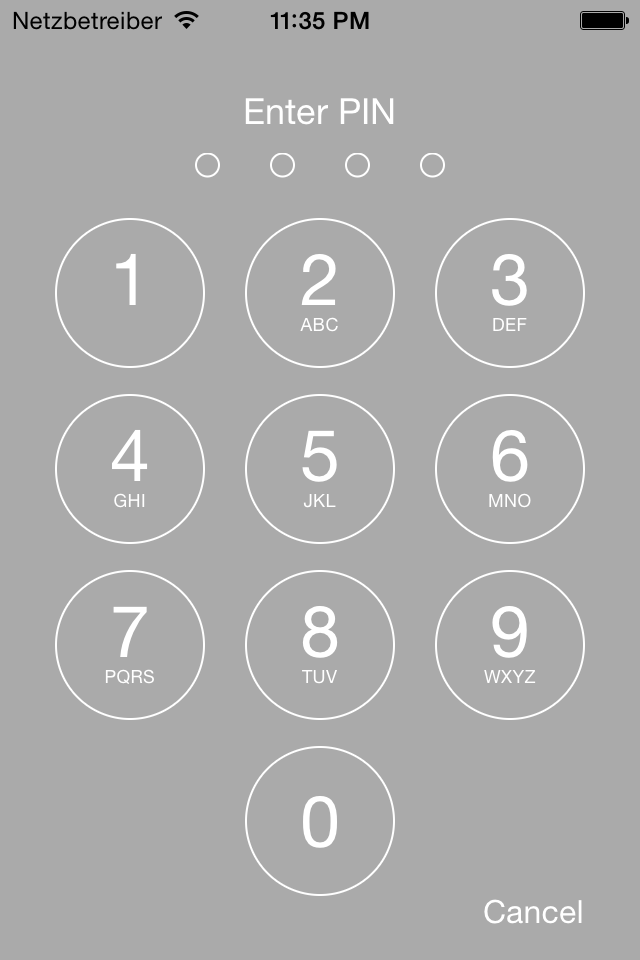
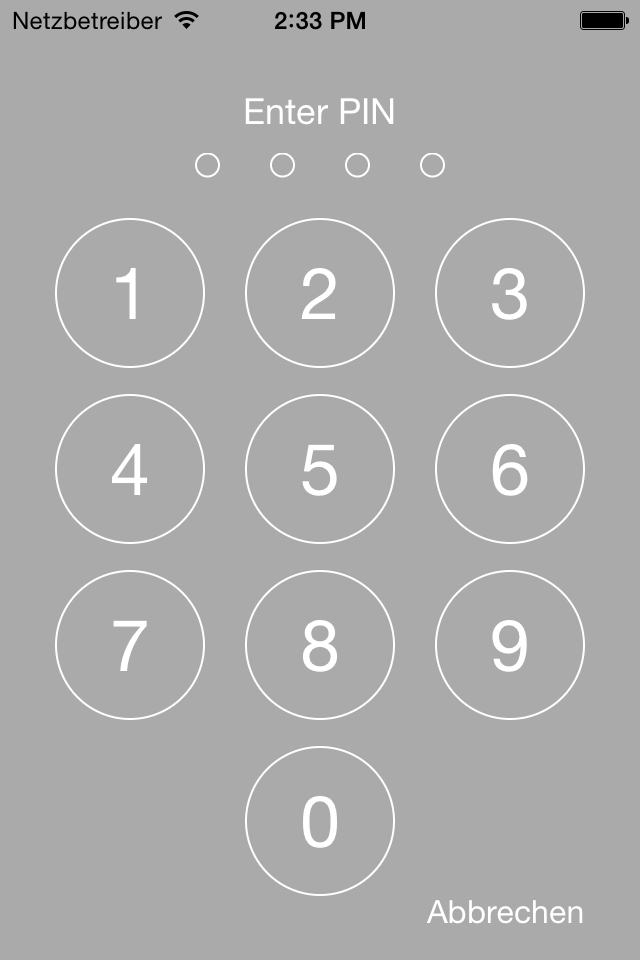
added option to hide letters

diff --git a/THPinViewController/THPinNumPadView.m b/THPinViewController/THPinNumPadView.m
@@ -36,74 +36,86 @@
         self.hPadding = (UI_USER_INTERFACE_IDIOM() == UIUserInterfaceIdiomPad) ? 24.0f : 20.0f;
         self.vPadding = (UI_USER_INTERFACE_IDIOM() == UIUserInterfaceIdiomPad) ? 19.0f : 13.0f;
         
-        NSMutableString *vFormat = [NSMutableString stringWithString:@"V:|"];
-        NSMutableDictionary *rowViews = [NSMutableDictionary dictionary];
-        
-        for (NSUInteger row = 0; row < 4; row++)
-        {
-            UIView *rowView = [[UIView alloc] init];
-            rowView.translatesAutoresizingMaskIntoConstraints = NO;
-            [self addSubview:rowView];
-            [self addConstraint:[NSLayoutConstraint constraintWithItem:rowView attribute:NSLayoutAttributeCenterX
-                                                             relatedBy:NSLayoutRelationEqual
-                                                                toItem:self attribute:NSLayoutAttributeCenterX
-                                                            multiplier:1.0f constant:0.0f]];
-            
-            NSString *rowName = [NSString stringWithFormat:@"row%lu", (unsigned long)row];
-            if (row > 0) {
-                [vFormat appendString:@"-(vPadding)-"];
-            }
-            [vFormat appendFormat:@"[%@(==rowHeight)]", rowName];
-            rowViews[rowName] = rowView;
-            
-            NSMutableString *hFormat = [NSMutableString stringWithString:@"H:|"];
-            NSMutableDictionary *buttonViews = [NSMutableDictionary dictionary];
-            
-            for (NSUInteger col = 0; col < 3; col++)
-            {
-                if (row == 3 && col != 1) {
-                    // only one button on last row
-                    continue;
-                }
-                
-                NSUInteger number = (row < 3) ? row * 3 + col + 1 : 0;
-                THPinNumButton *button = [[THPinNumButton alloc] initWithNumber:number
-                                                                        letters:[self lettersForRow:row column:col]];
-                button.translatesAutoresizingMaskIntoConstraints = NO;
-                button.backgroundColor = self.backgroundColor;
-                [button addTarget:self action:@selector(numberButtonTapped:) forControlEvents:UIControlEventTouchUpInside];
-                [rowView addSubview:button];
-                
-                NSString *buttonName = [NSString stringWithFormat:@"button%lu%lu", (unsigned long)row, (unsigned long)col];
-                [rowView addConstraints:[NSLayoutConstraint constraintsWithVisualFormat:[NSString stringWithFormat:@"V:|[%@]|", buttonName]
-                                                                                options:0 metrics:nil views:@{ buttonName : button }]];
-                
-                if (row < 3) {
-                    if ([buttonViews count] > 0) {
-                        [hFormat appendString:@"-(hPadding)-"];
-                    }
-                    [hFormat appendFormat:@"[%@]", buttonName];
-                } else {
-                    [hFormat appendFormat:@"-[%@]-", buttonName];
-                }
-                buttonViews[buttonName] = button;
-            }
-            
-            [hFormat appendString:@"|"];
-            NSDictionary *metrics = @{ @"hPadding" : @(self.hPadding) };
-            [rowView addConstraints:[NSLayoutConstraint constraintsWithVisualFormat:hFormat options:0 metrics:metrics views:buttonViews]];
-        }
-        
-        [vFormat appendString:@"|"];
-        NSDictionary *metrics = @{ @"rowHeight" : @([THPinNumButton diameter]),
-                                   @"vPadding" : @(self.vPadding) };
-        [self addConstraints:[NSLayoutConstraint constraintsWithVisualFormat:vFormat options:0 metrics:metrics views:rowViews]];
+        [self setupViews];
     }
     return self;
 }
 
+- (void)setupViews
+{
+    // remove existing views
+    [self.subviews makeObjectsPerformSelector:@selector(removeFromSuperview)];
+    
+    NSMutableString *vFormat = [NSMutableString stringWithString:@"V:|"];
+    NSMutableDictionary *rowViews = [NSMutableDictionary dictionary];
+    
+    for (NSUInteger row = 0; row < 4; row++)
+    {
+        UIView *rowView = [[UIView alloc] init];
+        rowView.translatesAutoresizingMaskIntoConstraints = NO;
+        [self addSubview:rowView];
+        [self addConstraint:[NSLayoutConstraint constraintWithItem:rowView attribute:NSLayoutAttributeCenterX
+                                                         relatedBy:NSLayoutRelationEqual
+                                                            toItem:self attribute:NSLayoutAttributeCenterX
+                                                        multiplier:1.0f constant:0.0f]];
+        
+        NSString *rowName = [NSString stringWithFormat:@"row%lu", (unsigned long)row];
+        if (row > 0) {
+            [vFormat appendString:@"-(vPadding)-"];
+        }
+        [vFormat appendFormat:@"[%@(==rowHeight)]", rowName];
+        rowViews[rowName] = rowView;
+        
+        NSMutableString *hFormat = [NSMutableString stringWithString:@"H:|"];
+        NSMutableDictionary *buttonViews = [NSMutableDictionary dictionary];
+        
+        for (NSUInteger col = 0; col < 3; col++)
+        {
+            if (row == 3 && col != 1) {
+                // only one button on last row
+                continue;
+            }
+            
+            NSUInteger number = (row < 3) ? row * 3 + col + 1 : 0;
+            THPinNumButton *button = [[THPinNumButton alloc] initWithNumber:number
+                                                                    letters:[self lettersForRow:row column:col]];
+            button.translatesAutoresizingMaskIntoConstraints = NO;
+            button.backgroundColor = self.backgroundColor;
+            [button addTarget:self action:@selector(numberButtonTapped:) forControlEvents:UIControlEventTouchUpInside];
+            [rowView addSubview:button];
+            
+            NSString *buttonName = [NSString stringWithFormat:@"button%lu%lu", (unsigned long)row, (unsigned long)col];
+            [rowView addConstraints:[NSLayoutConstraint constraintsWithVisualFormat:[NSString stringWithFormat:@"V:|[%@]|", buttonName]
+                                                                            options:0 metrics:nil views:@{ buttonName : button }]];
+            
+            if (row < 3) {
+                if ([buttonViews count] > 0) {
+                    [hFormat appendString:@"-(hPadding)-"];
+                }
+                [hFormat appendFormat:@"[%@]", buttonName];
+            } else {
+                [hFormat appendFormat:@"-[%@]-", buttonName];
+            }
+            buttonViews[buttonName] = button;
+        }
+        
+        [hFormat appendString:@"|"];
+        NSDictionary *metrics = @{ @"hPadding" : @(self.hPadding) };
+        [rowView addConstraints:[NSLayoutConstraint constraintsWithVisualFormat:hFormat options:0 metrics:metrics views:buttonViews]];
+    }
+    
+    [vFormat appendString:@"|"];
+    NSDictionary *metrics = @{ @"rowHeight" : @([THPinNumButton diameter]),
+                               @"vPadding" : @(self.vPadding) };
+    [self addConstraints:[NSLayoutConstraint constraintsWithVisualFormat:vFormat options:0 metrics:metrics views:rowViews]];
+}
+
 - (NSString *)lettersForRow:(NSUInteger)row column:(NSUInteger)col
 {
+    if (self.hideLetters) {
+        return nil;
+    }
+    
     switch (row)
     {
         case 0:
@@ -160,6 +172,15 @@
             button.backgroundColor = self.backgroundColor;
         }
     }
+}
+
+- (void)setHideLetters:(BOOL)hideLetters
+{
+    if (self.hideLetters == hideLetters) {
+        return;
+    }
+    _hideLetters = hideLetters;
+    [self setupViews];
 }
 
 - (void)numberButtonTapped:(id)sender

diff --git a/THPinViewController/THPinView.m b/THPinViewController/THPinView.m
@@ -63,6 +63,7 @@
         self.numPadView = [[THPinNumPadView alloc] initWithDelegate:self];
         self.numPadView.translatesAutoresizingMaskIntoConstraints = NO;
         self.numPadView.backgroundColor = self.backgroundColor;
+        self.numPadView.hideLetters = self.hideLetters;
         [self addSubview:self.numPadView];
         [self addConstraint:[NSLayoutConstraint constraintWithItem:self.numPadView attribute:NSLayoutAttributeCenterX
                                                          relatedBy:NSLayoutRelationEqual
@@ -169,6 +170,16 @@
 - (void)setPromptColor:(UIColor *)promptColor
 {
     self.promptLabel.textColor = promptColor;
+}
+
+- (BOOL)hideLetters
+{
+    return self.numPadView.hideLetters;
+}
+
+- (void)setHideLetters:(BOOL)hideLetters
+{
+    self.numPadView.hideLetters = hideLetters;
 }
 
 #pragma mark - Public

diff --git a/THPinViewController/THPinViewController.m b/THPinViewController/THPinViewController.m
@@ -43,6 +43,7 @@
     self.pinView.backgroundColor = self.view.backgroundColor;
     self.pinView.promptTitle = self.promptTitle;
     self.pinView.promptColor = self.promptColor;
+    self.pinView.hideLetters = self.hideLetters;
     self.pinView.translatesAutoresizingMaskIntoConstraints = NO;
     [self.view addSubview:self.pinView];
     // center pin view
@@ -95,6 +96,15 @@
     }
     _promptColor = promptColor;
     self.pinView.promptColor = self.promptColor;
+}
+
+- (void)setHideLetters:(BOOL)hideLetters
+{
+    if (self.hideLetters == hideLetters) {
+        return;
+    }
+    _hideLetters = hideLetters;
+    self.pinView.hideLetters = self.hideLetters;
 }
 
 #pragma mark - THPinViewDelegate

diff --git a/THPinViewControllerExample/THViewController.m b/THPinViewControllerExample/THViewController.m
@@ -50,6 +50,7 @@
     pinViewController.promptTitle = @"Enter PIN";
     pinViewController.promptColor = [UIColor whiteColor];
     pinViewController.view.tintColor = [UIColor whiteColor];
+    pinViewController.hideLetters = YES;
     [self presentViewController:pinViewController animated:YES completion:nil];
 }
 
@@ -71,6 +72,7 @@
 
 - (BOOL)pinViewController:(THPinViewController *)pinViewController isPinValid:(NSString *)pin
 {
+    pinViewController.hideLetters = (! pinViewController.hideLetters);
     if ([pin isEqualToString:self.correctPin]) {
         return YES;
     } else {

diff --git a/THPinViewController/THPinViewController.h b/THPinViewController/THPinViewController.h
@@ -34,6 +34,7 @@
 @property (nonatomic, strong) UIColor *backgroundColor;
 @property (nonatomic, copy) NSString *promptTitle;
 @property (nonatomic, strong) UIColor *promptColor;
+@property (nonatomic, assign) BOOL hideLetters;
 
 - (instancetype)initWithDelegate:(id<THPinViewControllerDelegate>)delegate;
 

diff --git a/THPinViewController/THPinView.h b/THPinViewController/THPinView.h
@@ -26,6 +26,7 @@
 @property (nonatomic, weak) id<THPinViewDelegate> delegate;
 @property (nonatomic, copy) NSString *promptTitle;
 @property (nonatomic, strong) UIColor *promptColor;
+@property (nonatomic, assign) BOOL hideLetters;
 
 - (instancetype)initWithDelegate:(id<THPinViewDelegate>)delegate;
 

diff --git a/THPinViewController/THPinNumPadView.h b/THPinViewController/THPinNumPadView.h
@@ -20,6 +20,7 @@
 @interface THPinNumPadView : UIView
 
 @property (nonatomic, weak) id<THPinNumPadViewDelegate> delegate;
+@property (nonatomic, assign) BOOL hideLetters;
 
 - (instancetype)initWithDelegate:(id<THPinNumPadViewDelegate>)delegate;
 

diff --git a/readme.md b/readme.md
@@ -25,6 +25,7 @@ Usage
     pinViewController.promptTitle = @"Enter PIN";
     pinViewController.promptColor = [UIColor whiteColor];
     pinViewController.view.tintColor = [UIColor whiteColor];
+	pinViewController.hideLetters = YES;
     [self presentViewController:pinViewController animated:YES completion:nil];
 	
 	// mandatory delegate methods
